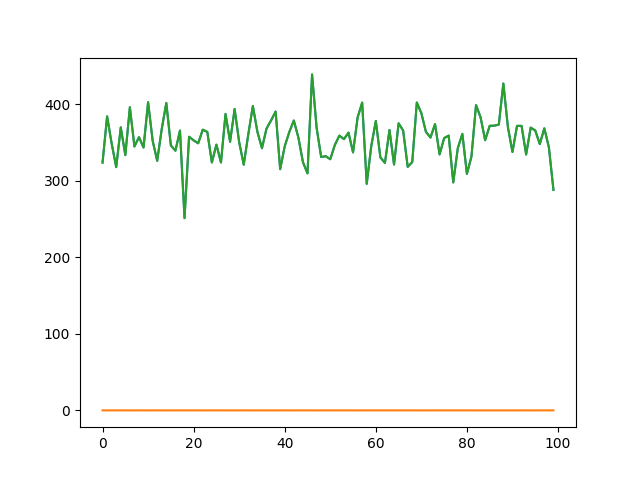
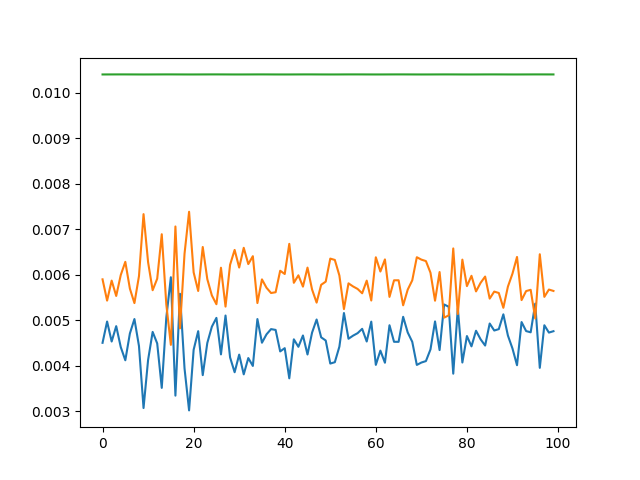
added

diff --git a/01/grant/dp-fragility-plastic-1/compress-dps.py b/01/grant/dp-fragility-plastic-1/compress-dps.py
@@ -9,14 +9,15 @@ from tqdm import tqdm
 from jaxdem_scripts.ga_utils import create_bidisperse_ga_dps_2d
 from jaxdem_scripts.compression_loop_dp import run_1, JobConfig as JCFG
 
-e_b = 1e-0
+e_b = 1e-1
 e_m = 1e0  # length
-e_c = 1e4  # area
+e_c = 1e3  # area
+tau_s = 10
 
-N_dps = 100
-mu_eff = 0.1
-min_nv = 20
-phi = 0.7
+N_dps = 10
+mu_eff = 0.5
+min_nv = 8
+phi = 0.8
 aspect_ratio = 1.0
 dp_mass = 1.0
 dt = 1e-3
@@ -29,8 +30,8 @@ cfg = JCFG(
     seed=np.random.randint(0, 1e9),
     delta_phi=1e-2,
     target_temperature=temp,
-    n_steps=10_000,
-    min_save_decade=100,
+    n_steps=100_000,
+    min_save_decade=1000,
 )
 
 data_root = f'/home/mmccraw/dev/data/26-01-01/grant/dp-plastic-fragilitiy/version-1/'
@@ -48,7 +49,8 @@ state, system = create_bidisperse_ga_dps_2d(
     e_c,
     e_b,
     e_l=None,
-    e_gamma=None
+    e_gamma=None,
+    tau_s=tau_s,
 )
 
 state = jd.utils.thermal.set_temperature(
@@ -70,6 +72,10 @@ def save_fn(st, sy):
     # perm = perm.at[st.unique_id].set(jnp.arange(st.unique_id.shape[0], dtype=st.unique_id.dtype))
     return dict(
         step_count=sy.step_count,
+        #
+        pos=st.pos,
+        rad=st.rad,
+        pid=st.bonded_id,
         # pos=st.pos[perm],
         # vel=st.vel[perm],
         pe=jd.utils.thermal.compute_potential_energy(st, sy),
@@ -82,14 +88,16 @@ state, system, logged = jd.System.trajectory_rollout(
     state, system, **rollout_kwargs,
 )
 
-print(logged['ke'])
-print(logged['pe'])
+from anim_utils import animate
+animate(logged['pos'], logged['rad'], logged['pid'], system.domain.box_size, 'test.gif')
+# print(logged['ke'])
+# print(logged['pe'])
 
-import matplotlib.pyplot as plt
-plt.plot(logged['pe'])
-plt.plot(logged['ke'])
-plt.plot(logged['ke'] + logged['pe'])
-plt.savefig('energies.png')
+# import matplotlib.pyplot as plt
+# plt.plot(logged['pe'])
+# plt.plot(logged['ke'])
+# plt.plot(logged['ke'] + logged['pe'])
+# plt.savefig('energies.png')
 
 # while phi < 1.0:
 #     state, system, mean_pe, _ = run_1(

diff --git a/01/grant/dp-fragility-plastic-1/anim_utils.py b/01/grant/dp-fragility-plastic-1/anim_utils.py
@@ -1,0 +1,43 @@
+def render(state, system, path, id_name='clump_ID'):
+    import subprocess
+    import numpy as np
+    import h5py
+    import os
+    with h5py.File('config.h5', 'w') as f:
+        f.create_dataset("pos", data=np.asarray(state.pos))
+        f.create_dataset("rad", data=np.asarray(state.rad))
+        f.create_dataset("ID",  data=np.asarray(getattr(state, id_name)))
+        f.create_dataset("box_size", data=np.asarray(system.domain.box_size))
+    run_render = "/home/mmccraw/dev/analysis/fall-25/12/testing-jaxdem-scripts/rigid-particle-creation/run_render.sh"
+    # run_render = "/Users/marshallmccraw/Projects/yale/analysis/fall-25/12/testing-jaxdem-scripts/rigid-particle-creation/run_render.sh"
+    subprocess.run([
+        str(run_render),
+        "config.h5",
+        path,
+        "1000",
+    ], check=True)
+    os.remove("config.h5")
+
+def animate(pos, rad, pid, box_size, path, frames=100, fps=15):
+    import subprocess
+    import numpy as np
+    import h5py
+    with h5py.File("traj.h5", "w") as f:
+        f.create_dataset("pos", data=pos)
+        f.create_dataset("rad", data=rad)
+        f.create_dataset("ID", data=pid)
+        f.create_dataset("box_size", data=box_size)
+
+    run_animation = "/home/mmccraw/dev/analysis/fall-25/12/testing-jaxdem-scripts/animation/run_animation.sh"
+    # run_animation = "/Users/marshallmccraw/Projects/yale/analysis/fall-25/12/testing-jaxdem-scripts/animation/run_animation.sh"
+    subprocess.run(
+        [
+            str(run_animation),
+            "traj.h5",
+            path,
+            str(frames),   # num_frames (evenly sampled if traj has more)
+            "1000",  # base_pixels
+            str(fps),    # fps
+        ],
+        check=True,
+    )
